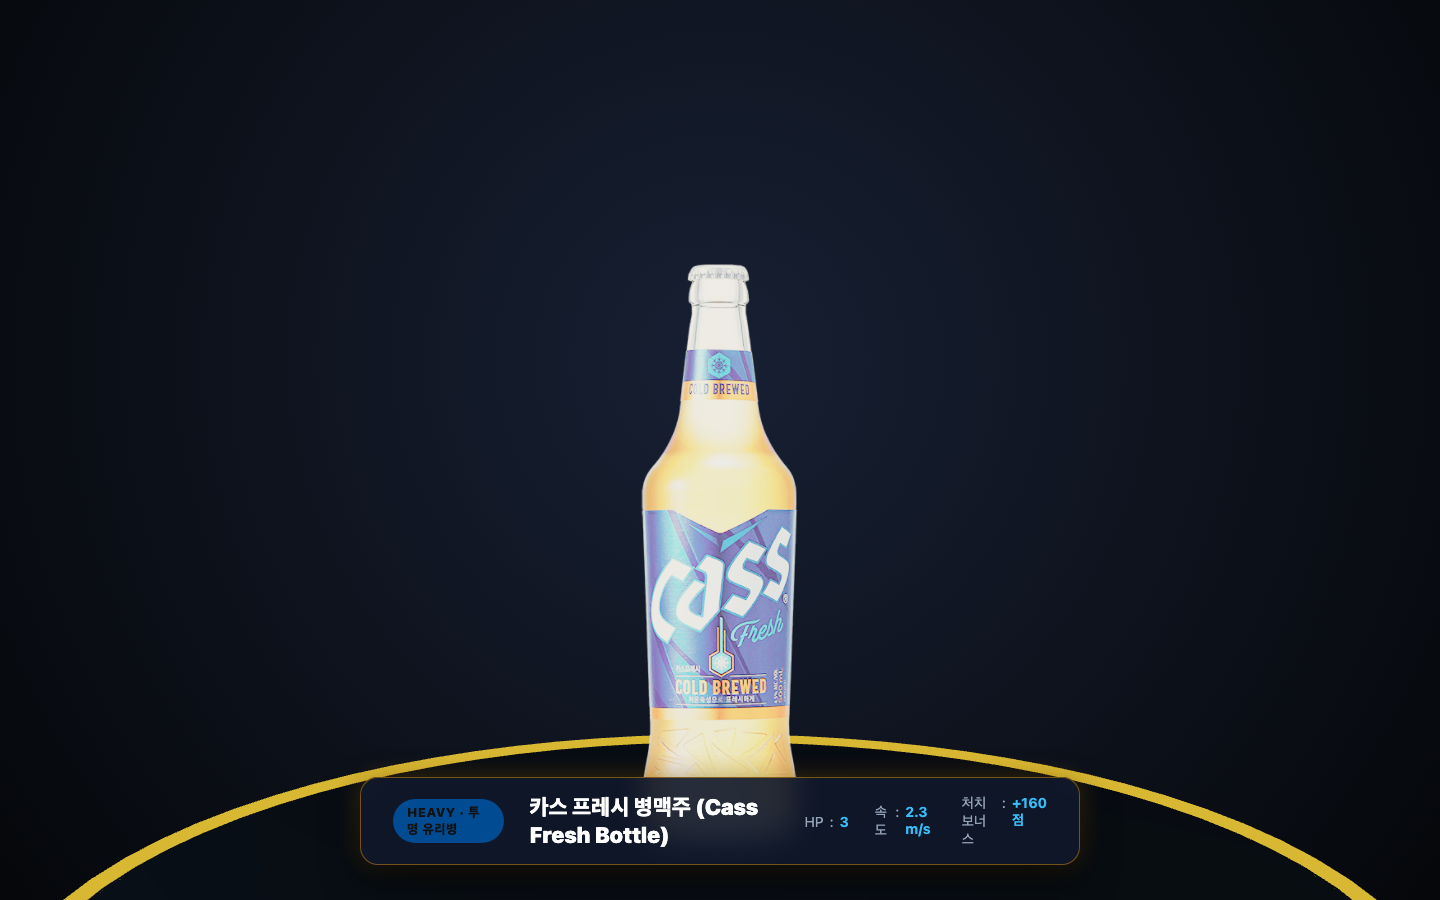
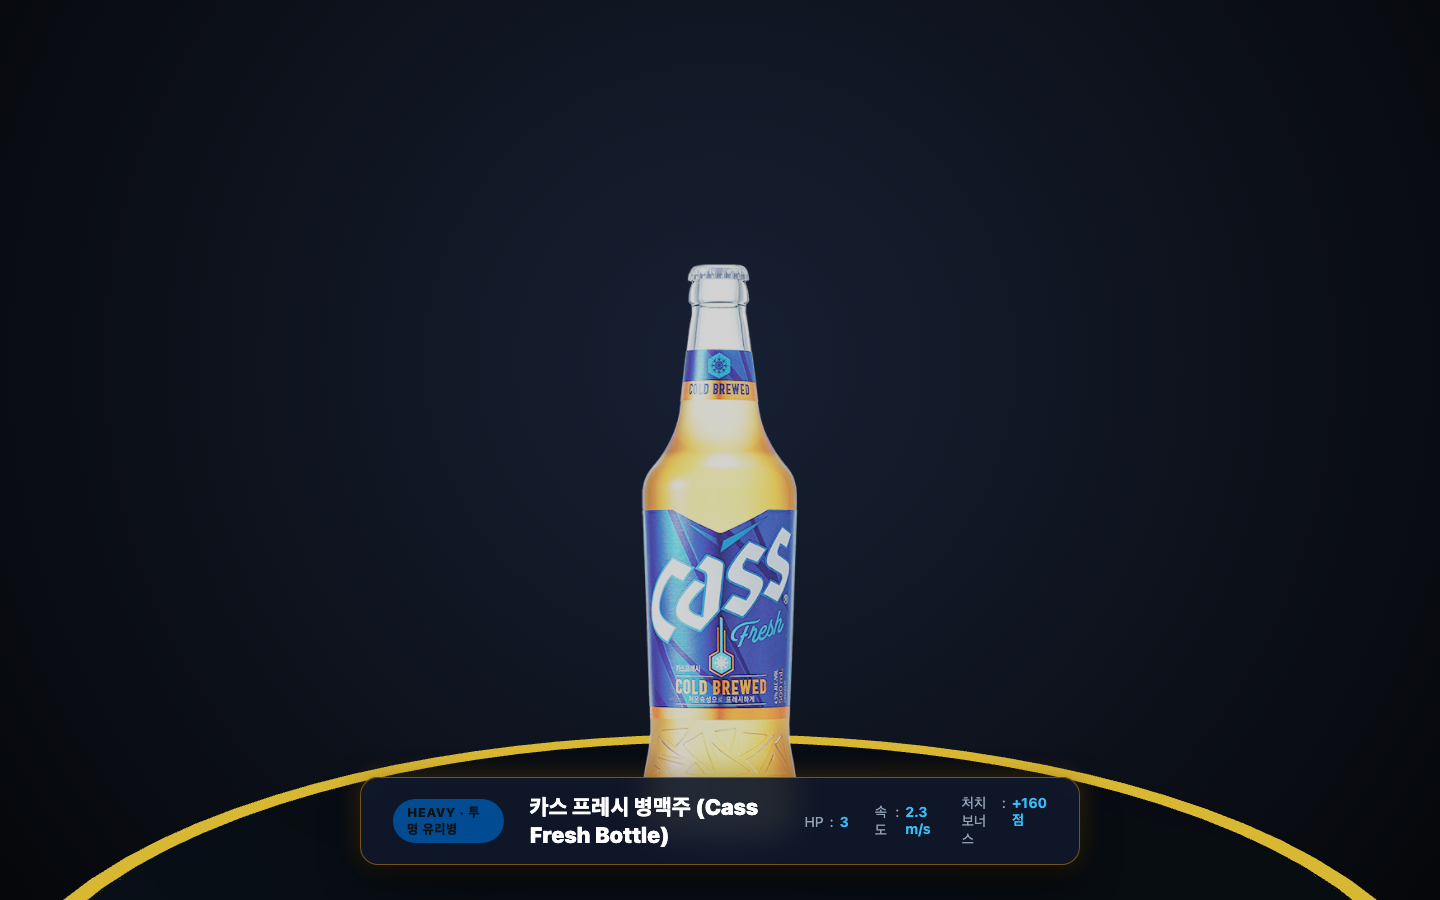
docs(studio): apply true-color MeshBasicMaterial to Cass bottle and refresh screenshots
Plan: 2026-11-02-cass-png-true-color
Phase: P01-cass-png-true-color
Task: T02-monster-studio-and-screens-refresh

- Update docs/monster-studio.html to use MeshBasicMaterial for authentic color reproduction
- Re-capture monster-05-cass-bottle.png and monster-lineup-all.png with zero lighting blowouts
- Visually verify crisp natural glass and amber beer in official docs

Changed region(s): [[0.4375, 0.28, 0.5625, 0.8711]]

diff --git a/docs/monster-studio.html b/docs/monster-studio.html
@@ -193,12 +193,10 @@
         cassTex.magFilter = THREE.LinearFilter;
 
         const billboardGeo = new THREE.PlaneGeometry(0.456, 1.68);
-        const billboardMat = new THREE.MeshStandardMaterial({
+        const billboardMat = new THREE.MeshBasicMaterial({
           map: cassTex,
           transparent: true,
           alphaTest: 0.05,
-          roughness: 0.22,
-          metalness: 0.08,
           side: THREE.DoubleSide,
         });
         const billboard = new THREE.Mesh(billboardGeo, billboardMat);

diff --git a/.memory/current.md b/.memory/current.md
@@ -1,17 +1,17 @@
 # Current Context
 
 ## Active Plan
-[카스 병맥주 공식 PNG 트루 컬러 1:1 복원](./plans/2026-11-02-cass-png-true-color.md)
+[카스 병맥주 공식 PNG 트루 컬러 1:1 복원](./plans/2026-11-02-cass-png-true-color.md) (All Phases Completed 🎉)
 
 ## Active Phase
-[P01 카스 병맥주 트루 컬러 복원 및 스튜디오 동기화](./phases/2026-11-02-cass-png-true-color/P01-cass-png-true-color/phase.md) (1/2 완료)
+[P01 카스 병맥주 트루 컬러 복원 및 스튜디오 동기화](./phases/2026-11-02-cass-png-true-color/P01-cass-png-true-color/phase.md) (Completed)
 
 ## Active Task
-[T02: 몬스터 스튜디오 MeshBasicMaterial 동기화 및 도감 스크린샷 갱신](./phases/2026-11-02-cass-png-true-color/P01-cass-png-true-color/T02-monster-studio-and-screens-refresh.md)
+None (모든 Task 완료)
 
 ## Status
-- T01 완료 (`done ✅`) — `TargetModels3D.ts`의 bottle 빌보드를 `MeshBasicMaterial`로 전환하여 조명 과포화 제거 및 트루 컬러 복원 완료
-- T02 진행 중 (`in_progress 🔵`) — `docs/monster-studio.html` 동기화 및 도감/인게임 스크린샷 전면 재캡처 준비
+- T01 완료 (커밋: `ea82d3f`) — `TargetModels3D.ts`의 bottle 빌보드를 `MeshBasicMaterial`로 전환하여 3D 조명 과포화 제거 및 트루 컬러 복원 완료
+- T02 완료 — `docs/monster-studio.html` 동기화 및 도감/인게임 스크린샷 전면 재캡처(`monster-05-cass-bottle.png`, `monster-lineup-all.png`, `screen-04-pc-gameplay.png`) 완료
 
-## Next Step (IMPORTANT)
-T02 청사진을 읽고 `docs/monster-studio.html` 파일 수정 및 `node scripts/capture-all.mjs` 실행
+## Next Step
+사용자 피드백 확인 및 완료 보고

diff --git a/.memory/phases/2026-11-02-cass-png-true-color/P01-cass-png-true-color/phase.md b/.memory/phases/2026-11-02-cass-png-true-color/P01-cass-png-true-color/phase.md
@@ -4,7 +4,7 @@
 | Task | Status | Summary | Blueprint |
 | :--- | :--- | :--- | :--- |
 | T01 | `done ✅` | `TargetModels3D.ts`의 `bottle` 빌보드를 `MeshBasicMaterial`로 전환하여 3D 조명 과포화 제거 및 전투 VFX 연동 유지 | [T01](./T01-target-models-3d-true-color-basic-material.md) |
-| T02 | `in_progress 🔵` | `monster-studio.html`에 `MeshBasicMaterial` 동기화, 도감/인게임 스크린샷 전면 재캡처 및 시각 검수 | [T02](./T02-monster-studio-and-screens-refresh.md) |
+| T02 | `done ✅` | `monster-studio.html`에 `MeshBasicMaterial` 동기화, 도감/인게임 스크린샷 전면 재캡처 및 시각 검수 | [T02](./T02-monster-studio-and-screens-refresh.md) |
 
 ## Progress
-- done: 1/2 (active: T02)
+- done: 2/2 (All tasks completed 🎉)

diff --git a/.memory/phases/2026-11-02-cass-png-true-color/P01-cass-png-true-color/T02-monster-studio-and-screens-refresh.md b/.memory/phases/2026-11-02-cass-png-true-color/P01-cass-png-true-color/T02-monster-studio-and-screens-refresh.md
@@ -1,6 +1,6 @@
 # Task: T02 몬스터 스튜디오 MeshBasicMaterial 동기화 및 도감 스크린샷 갱신
 
-## Status: pending
+## Status: done ✅
 
 ## Goal
 `docs/monster-studio.html`에 `MeshBasicMaterial`을 동기화하여 스튜디오 뷰에서도 과도한 조명(KeyLight 1.8, PointLight 2.0)으로 인한 쨍함을 완전히 제거하고, Playwright 자동 캡처로 도감 단독 컷(`monster-05-cass-bottle.png`), 6종 라인업(`monster-lineup-all.png`), 인게임 화면(`screen-04-pc-gameplay.png`)을 재캡처하여 시각적으로 검수한다.
@@ -59,6 +59,6 @@ Task: T02-monster-studio-and-screens-refresh
 ```
 
 ## Progress
-- [ ] 구현 완료
-- [ ] 검증 통과
-- commit: pending
+- [x] 구현 완료
+- [x] 검증 통과
+- commit: done

diff --git a/.memory/plans/2026-11-02-cass-png-true-color.md b/.memory/plans/2026-11-02-cass-png-true-color.md
@@ -7,4 +7,4 @@
 ## Phases
 | Phase | Status | Summary | Blueprint |
 | :--- | :--- | :--- | :--- |
-| P01 | `in_progress` | TargetModels3D 및 몬스터 스튜디오 MeshBasicMaterial 전환, 도감 스크린샷 갱신 및 검증 | [P01](../phases/2026-11-02-cass-png-true-color/P01-cass-png-true-color/phase.md) |
+| P01 | `completed` | TargetModels3D 및 몬스터 스튜디오 MeshBasicMaterial 전환, 도감 스크린샷 갱신 및 검증 | [P01](../phases/2026-11-02-cass-png-true-color/P01-cass-png-true-color/phase.md) |
